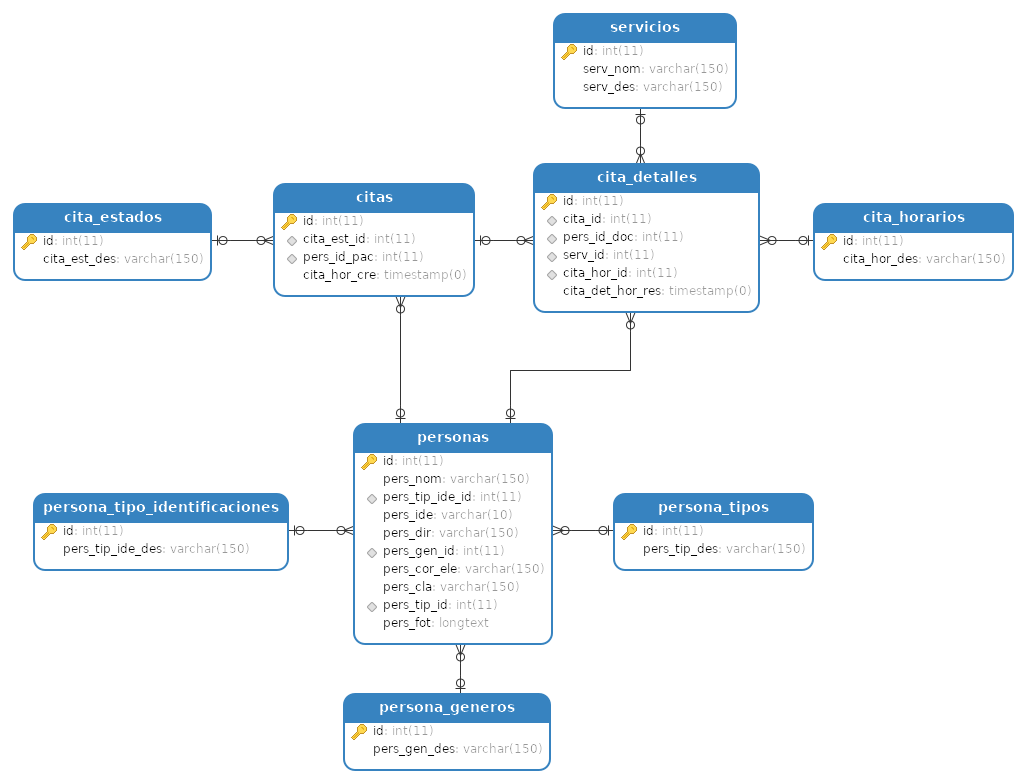
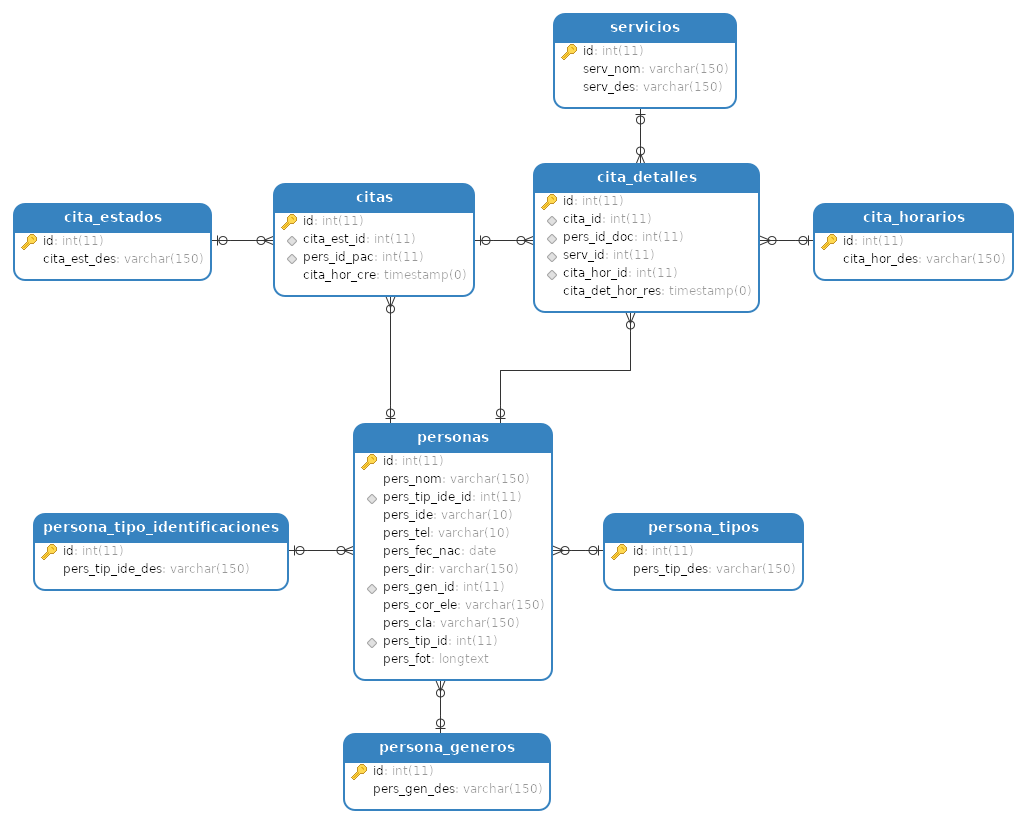
fix db model, connection register page OK

diff --git a/web/src/pages/appointment_system/register.js b/web/src/pages/appointment_system/register.js
@@ -1,10 +1,94 @@
 import React, { Component } from "react";
 import { withRouter } from "react-router-dom";
+import axios from "axios";
 
-// import "./writing.css";
+const API = "http://localhost:5000/labmeta/";
 
 class Register extends Component {
+  constructor(props) {
+    super(props);
+    this.state = {
+      pers_nom: "",
+      pers_tip_ide_id: "",
+      pers_ide: "",
+      pers_gen_id: "",
+      pers_cor_ele: "",
+      pers_cla: "",
+      persona_genero: [],
+      persona_tipo_identificacione: [],
+    };
+  }
+
+  componentDidMount() {
+    axios
+      .get(API + "persona_genero")
+      .then((response) => {
+        this.setState({ persona_genero: response.data.datos });
+      })
+      .catch((error) => {
+        console.log(error);
+      });
+    axios
+      .get(API + "persona_tipo_identificacione")
+      .then((response) => {
+        this.setState({ persona_tipo_identificacione: response.data.datos });
+      })
+      .catch((error) => {
+        console.log(error);
+      });
+  }
+
+  changeHandler = (e) => {
+    this.setState({ [e.target.name]: e.target.value });
+  };
+
+  registerUser = (e) => {
+    e.preventDefault();
+    this.post = {
+      datos: {
+        pers_nom: this.state.pers_nom,
+        pers_tip_ide_id: this.state.pers_tip_ide_id,
+        pers_ide: this.state.pers_ide,
+        pers_gen_id: this.state.pers_gen_id,
+        pers_cor_ele: this.state.pers_cor_ele,
+        pers_cla: this.state.pers_cla,
+      },
+    };
+    if (
+      this.post.datos.pers_nom === "" ||
+      this.post.datos.pers_tip_ide_id === "" ||
+      this.post.datos.pers_ide === "" ||
+      this.post.datos.pers_gen_id === "" ||
+      this.post.datos.pers_cor_ele === "" ||
+      this.post.datos.pers_cla === ""
+    ) {
+      alert("Complete todos los datos para continuar...");
+    } else {
+      axios
+        .post(API + "persona", this.post)
+        .then((response) => {
+          if (response.data.ok === true) {
+            // localStorage.setItem("pers_nom", this.state.pers_nom);
+            this.props.history.push("/login");
+          }
+        })
+        .catch((error) => {
+          alert("Datos Incorrectos");
+        });
+    }
+  };
+
   render() {
+    const {
+      pers_nom,
+      pers_tip_ide_id,
+      pers_ide,
+      pers_gen_id,
+      pers_cor_ele,
+      pers_cla,
+      persona_genero,
+      persona_tipo_identificacione,
+    } = this.state;
     const logo = require("../../assets/logo.jpeg");
     const register = require("../../assets/appointment_system/register.jpg");
     return (
@@ -22,15 +106,17 @@ class Register extends Component {
             <div className="py-1">
               <div className="flex items-center">
                 <i className="fas fa-user px-1"></i>
-                <p className="px-2">* Apellidos y Nombres:</p>
+                <p className="px-2">* Apellidos y nombres:</p>
               </div>
               <div>
                 <input
-                  type="text"
-                  name="name"
-                  autoComplete="off"
-                  placeHolder="Apellidos y Nombres"
                   className="border-2 h-10 w-full rounded-lg px-4"
+                  placeHolder="Apellidos y nombres"
+                  type="text"
+                  name="pers_nom"
+                  value={pers_nom}
+                  onChange={this.changeHandler}
+                  autoComplete="off"
                 />
               </div>
             </div>
@@ -41,20 +127,29 @@ class Register extends Component {
               </div>
               <div className="flex">
                 <div className="px-1">
-                  <select className="border-2 h-10 w-full rounded-lg">
+                  <select
+                    className="border-2 h-10 w-full rounded-lg"
+                    name="pers_tip_ide_id"
+                    value={pers_tip_ide_id}
+                    onChange={this.changeHandler}
+                  >
                     <option value="">Seleccione...</option>
-                    <option value="1">Cédula</option>
-                    <option value="2">R.U.C.</option>
-                    <option value="3">Pasaporte</option>
+                    {persona_tipo_identificacione.map((element) => (
+                      <option key={element.id} value={element.id}>
+                        {element.pers_tip_ide_des}
+                      </option>
+                    ))}
                   </select>
                 </div>
                 <div className="px-1">
                   <input
-                    type="text"
-                    name="name"
-                    autoComplete="off"
-                    placeHolder="1234567890"
                     className="border-2 h-10 w-full rounded-lg px-4"
+                    placeHolder="1234567890"
+                    type="text"
+                    name="pers_ide"
+                    value={pers_ide}
+                    onChange={this.changeHandler}
+                    autoComplete="off"
                   />
                 </div>
               </div>
@@ -65,10 +160,18 @@ class Register extends Component {
                   <i className="fas fa-user px-1"></i>
                   <p className="px-2">* Género:</p>
                 </div>
-                <select className="border-2 h-10 rounded-lg">
+                <select
+                  className="border-2 h-10 rounded-lg"
+                  name="pers_gen_id"
+                  value={pers_gen_id}
+                  onChange={this.changeHandler}
+                >
                   <option value="">Seleccione...</option>
-                  <option value="1">Masculino</option>
-                  <option value="2">Femenino</option>
+                  {persona_genero.map((element) => (
+                    <option key={element.id} value={element.id}>
+                      {element.pers_gen_des}
+                    </option>
+                  ))}
                 </select>
               </div>
             </div>
@@ -99,11 +202,13 @@ class Register extends Component {
               </div>
               <div>
                 <input
-                  type="email"
-                  name="name"
-                  autoComplete="off"
-                  placeHolder="ejemplo@gmail.com"
                   className="border-2 h-10 w-full rounded-lg px-4"
+                  placeHolder="ejemplo@gmail.com"
+                  type="email"
+                  name="pers_cor_ele"
+                  value={pers_cor_ele}
+                  onChange={this.changeHandler}
+                  autoComplete="off"
                 />
               </div>
             </div>
@@ -115,27 +220,29 @@ class Register extends Component {
             <div className="flex">
               <div className="px-1 w-full">
                 <input
-                  type="password"
-                  name="name"
-                  placeHolder="Contraseña"
                   className="border-2 h-10 w-full rounded-lg px-4"
+                  placeHolder="Contraseña"
+                  type="password"
+                  name="pers_cla"
+                  value={pers_cla}
+                  onChange={this.changeHandler}
                 />
               </div>
-              <div className="px-1 w-full">
+              {/* <div className="px-1 w-full">
                 <input
                   type="password"
                   name="name"
                   placeHolder="Confirmar contraseña"
                   className="border-2 h-10 w-full rounded-lg px-4"
                 />
-              </div>
+              </div> */}
             </div>
           </div>
           <div>
             <div className="flex justify-center py-8">
               <button
                 className="bg-yellow-500 rounded-lg hover:bg-yellow-400 p-3 mr-2"
-                onClick={() => this.props.history.push("/login")}
+                onClick={this.registerUser}
               >
                 Registrarme
               </button>
@@ -177,4 +284,5 @@ class Register extends Component {
     );
   }
 }
+
 export default withRouter(Register);

diff --git a/backend/config/db.js b/backend/config/db.js
@@ -2,10 +2,10 @@ const Sequelize = require("sequelize");
 
 const db = {};
 
-// const sequelize = new Sequelize("labmeta", "root", "1234", {
-const sequelize = new Sequelize("SVwDfSmIdQ", "SVwDfSmIdQ", "4FSfPas8ey", {
-  host: "remotemysql.com",
-  // host: "localhost",
+const sequelize = new Sequelize("labmeta", "root", "1234", {
+  // const sequelize = new Sequelize("SVwDfSmIdQ", "SVwDfSmIdQ", "4FSfPas8ey", {
+  //   host: "remotemysql.com",
+  host: "localhost",
   dialect: "mysql",
   define: {
     timestamps: false,
